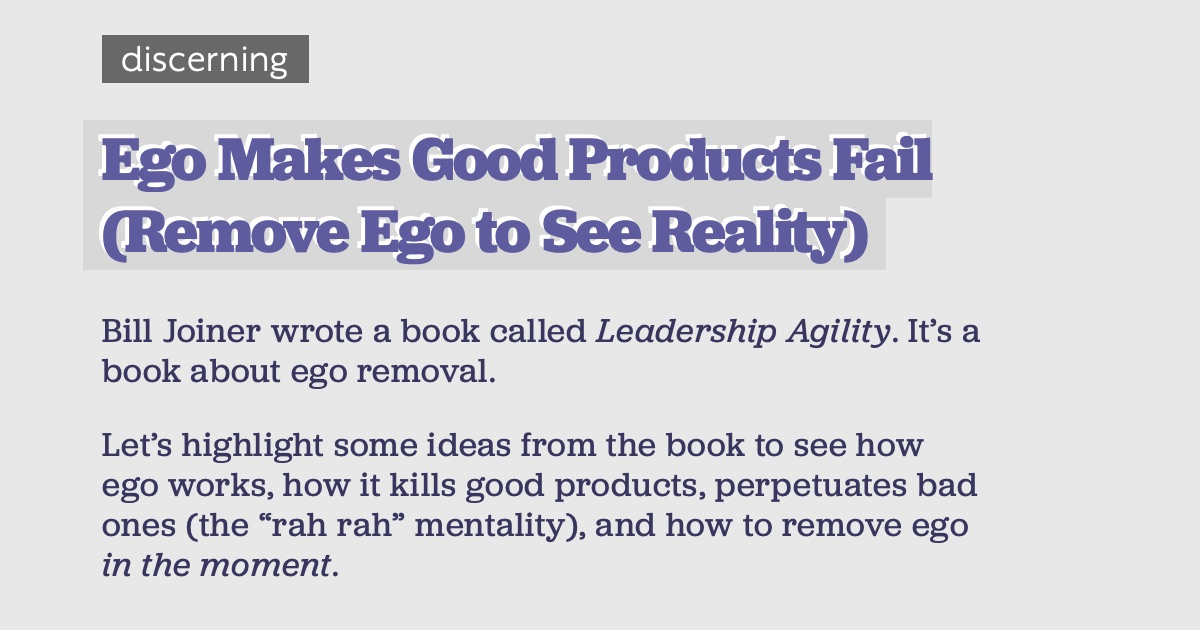
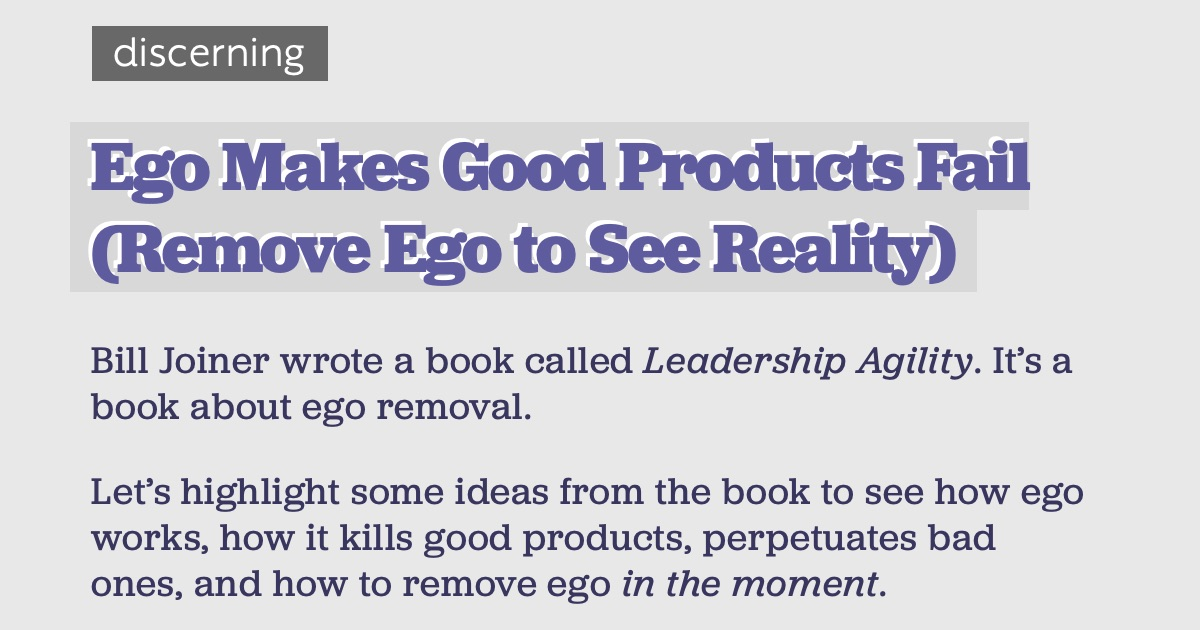
tweak the ego article

Changed region(s): [[0.0617, 0.4825, 0.8942, 0.9651], [0.0617, 0.2111, 0.8633, 0.4524], [0.0617, 0.0302, 0.2775, 0.1508]]

diff --git a/_posts/2020-10-16-ego-makes-good-products-fail-remove-ego.md b/_posts/2020-10-16-ego-makes-good-products-fail-remove-ego.md
@@ -23,7 +23,7 @@ excerpt:
 
 Bill Joiner wrote a book called _Leadership Agility_. It's a book about ego removal.
 
-Let's highlight some ideas from the book to see how ego works, how it kills good products, perpetuates bad ones (the "rah rah" mentality), and how to remove ego _in the moment_.
+Let's highlight some ideas from the book to see how ego works, how it kills good products, perpetuates bad ones, and how to remove ego _in the moment_.
 
 ## Agility and Heroism
 
@@ -76,15 +76,15 @@ Leaders operate at Post-Heroic stages (The Catalyst, The Co-creator, The Synergi
 * They're able to be mentally agile
 * They're able to remove their egos on the spot
 
-## Ego Removal, The Development Ceiling
+## Ego Detection, The Development Ceiling
 
 What marks those operating beneath the development ceiling from those operating above the development ceiling?
 
-Ego removal.
+Ego detection.
 
 * The ability to notice when the ego surfaces
 * The ability to see when the brain is acting in a reactionary mode
-* The ability to see **when our thoughts are colored** by certitude, this-or-that thinking, labelling, biases, convictions and the ability to **re-write thoughts in the moment**.
+* The ability to see **when thoughts are colored** by certitude, this-or-that thinking, labelling, biases, convictions and the ability to **re-write thoughts in the moment**.
 
 ## Real-Time Ego Detection
 
@@ -97,7 +97,7 @@ When operating at a Post-Heroic stage, you can spot thoughts that come from the 
 * This thing **surely** isn't going to work...
 {: .thoughts }
 
-These thoughts are sub-conscious. **Spotting the ego is about shining a light on those lenses that colour your perception of what's really there.**
+These thoughts are subconscious. **Spotting the ego is about shining a light on those lenses that colour your perception of what's really there.**
 
 Before we go further into ego removal, let's look at its effect on leading product development.
 
@@ -111,9 +111,9 @@ A lot of the advice you get when you're building a product looks like this:
 * If you don't get a conversion rate of X, there's something wrong
 * Sharpen your positioning, go for your ideal buyer
 
-Those are high-level statements. But along the timeline of a product's development, tons of small decisions need to be made. Over the long haul, the ego has plenty of occasions to comes up, to surface up thoughts with some "surely's and some "either's".
+Those are high-level statements. But along the timeline of a product's development, tons of small decisions need to be made. Over the long haul, the ego has plenty of occasions to creep in, to surface thoughts with some "surely's and some "either's".
 
-* **Surely** I'll take way too long to get traction.
+* **Surely** it'll take way too long to get traction.
 * It's **either** I overhaul the product **or** I tank it.
 * I have to start seeing some results, **or else** my reputation will be tarnished.
 {: .thoughts }
@@ -122,11 +122,11 @@ And because that ego detection skill is rare and hard, a lot of good products ar
 
 Because of ego, discernment was swayed by thoughts that weren't caught and re-written.
 
-## Bad Products Aren't Killed Because of Ego (Rah Rah!)
+## Bad Products Aren't Killed, Because of Ego
 
 Or maybe you know a founder or two with a lot of ego. They tout their ability to get top investment money. They push hard toward a vision. They bark back at dissent. They demand high levels of work ethic, of efficiency, of hustling long hours.
 
-These leaders are totally blind to the mental lenses operating subconsciously. They never notice when their ego is coloring their judgement, they just push through. Rah Rah! Textbook _achiever/heroic/egoic_ profile.
+These leaders are totally blind to the mental lenses operating subconsciously. They never notice when their ego is coloring their judgement, they just push through. Textbook _achiever/heroic/egoic_ profile.
 
 This is the reality they risk being blind to: their product [never had what it took to work][your-product-will-fail].
 
@@ -141,9 +141,9 @@ Because of ego, thoughts weren't re-written when they should have been.
 
 ## Re-Writing Thoughts
 
-There are two big categories of lenses to look out for, one basic way to re-write a thought, and I'll share my favourite in-depth thought re-writing method.
+There are two big lenses to look out for, one basic way to re-write a thought, and I'll share my favourite in-depth thought re-writing method.
 
-### Two Big Categories of Lenses to Spot
+### Two Big Lenses to Spot
 
 1. **The identity (labelling) lens:** You'll know your thought is colored by this lens when you spot an **is a** in your mind. "This person is a". Re-write with "This person has a" or "This person can" or "This person prefers".
 2. **The opposition lens:** "Either", "Or". This lens creates a choice, a duality, restricts your view to two possible outcomes. Re-write with "Maybe there's a way to have a third option" and "Maybe there's a way to do both."
@@ -152,7 +152,7 @@ There are two big categories of lenses to look out for, one basic way to re-writ
 
 When spotting a thought that the ego is clinging to, one basic way to re-write that thought is to **simply reply (internally) with "Maybe".**
 
-* **Surely** I'll take way too long to get traction.
+* **Surely** it'll take way too long to get traction.
 {: .thoughts }
 
 Maybe.
@@ -169,11 +169,11 @@ Maybe.
 
 "Maybe" takes the edge off. It acquieces that the ego had a hold on a thought, and disassociates the thought from the reaction.
 
-Then you can re-write the thought.
+Then you can re-write the thought with something else.
 
 ### Active Thought Re-writing
 
-Here's how I actively re-write my thoughts. I do this pre-emptively, or anytime I sense a reaction, a duality, a labelling, a "surely", an "unless", etc.
+Here's how I actively re-write my thoughts. I do this pre-emptively, or anytime I sense a reaction coming, a duality, a labelling, a "surely", an "unless", etc.
 
 1. I open a TaskPaper document (it lets me indent)
 2. I make a heading called "Mental models:" (another word for those subconscious lenses, those certitudes, biases, etc)
@@ -183,7 +183,7 @@ Here's how I actively re-write my thoughts. I do this pre-emptively, or anytime 
 
 <pre class="mental-models" markdown="block">
 **Mental models:**
-  Surely I'll take way too long to get traction
+  Surely it'll take way too long to get traction
     **- Maybe**
     **- Maybe I'm in a [dip][your-product-will-fail] and I need to push through**
     **- I'm in a winner-take-all scenario and it'll be worth the effort**
